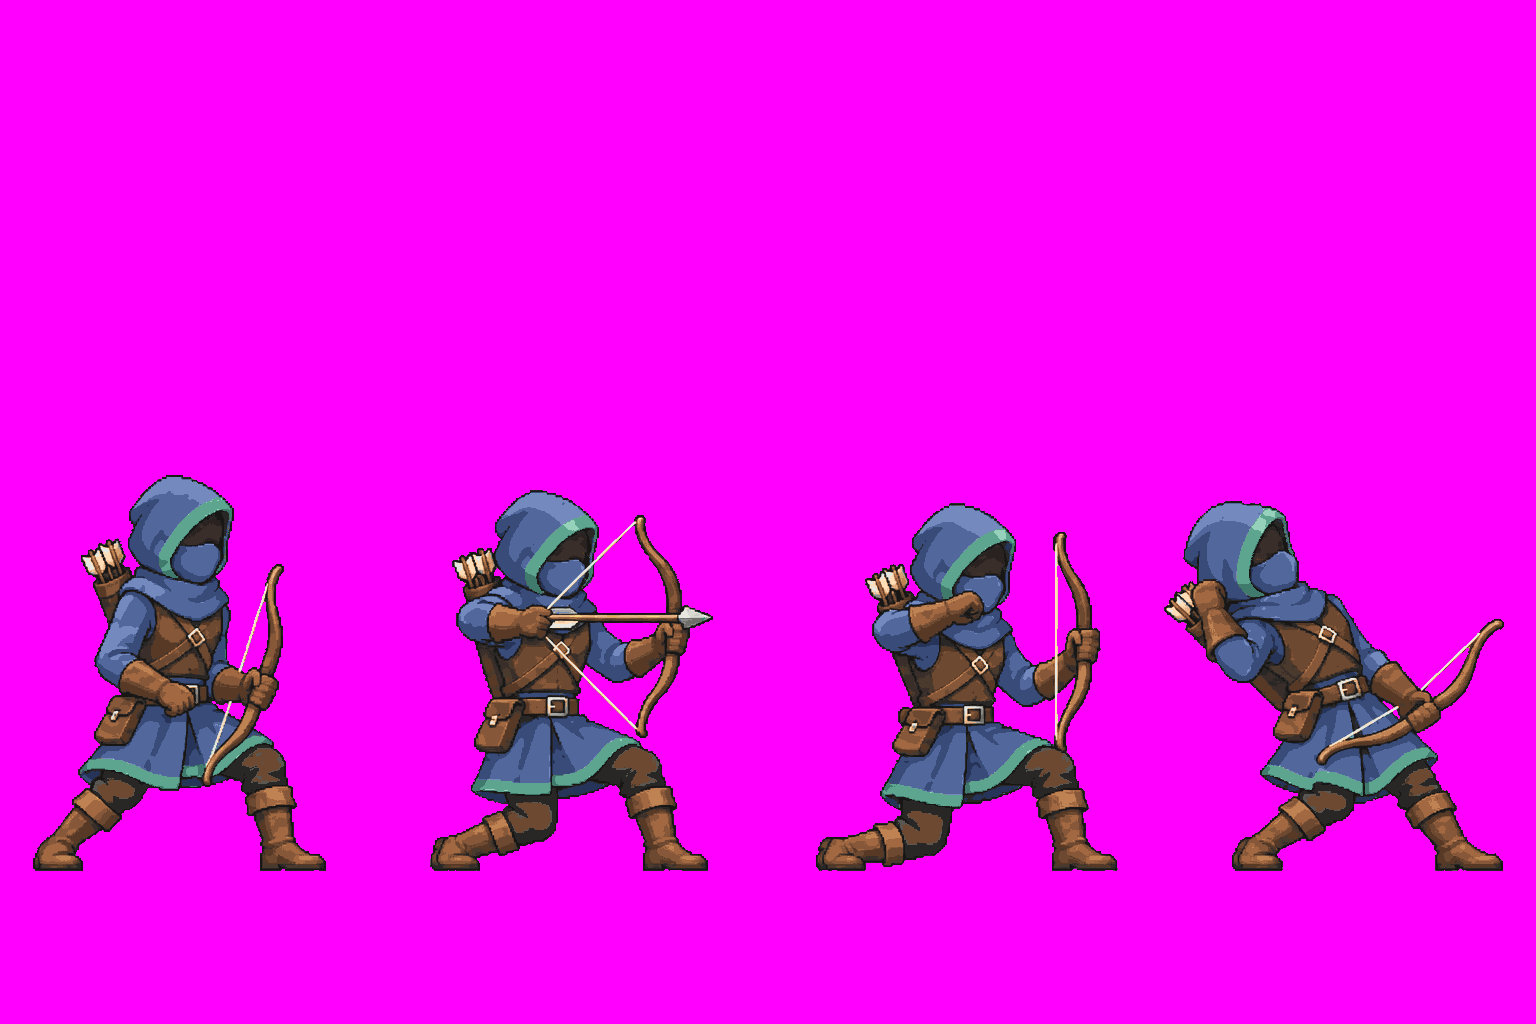
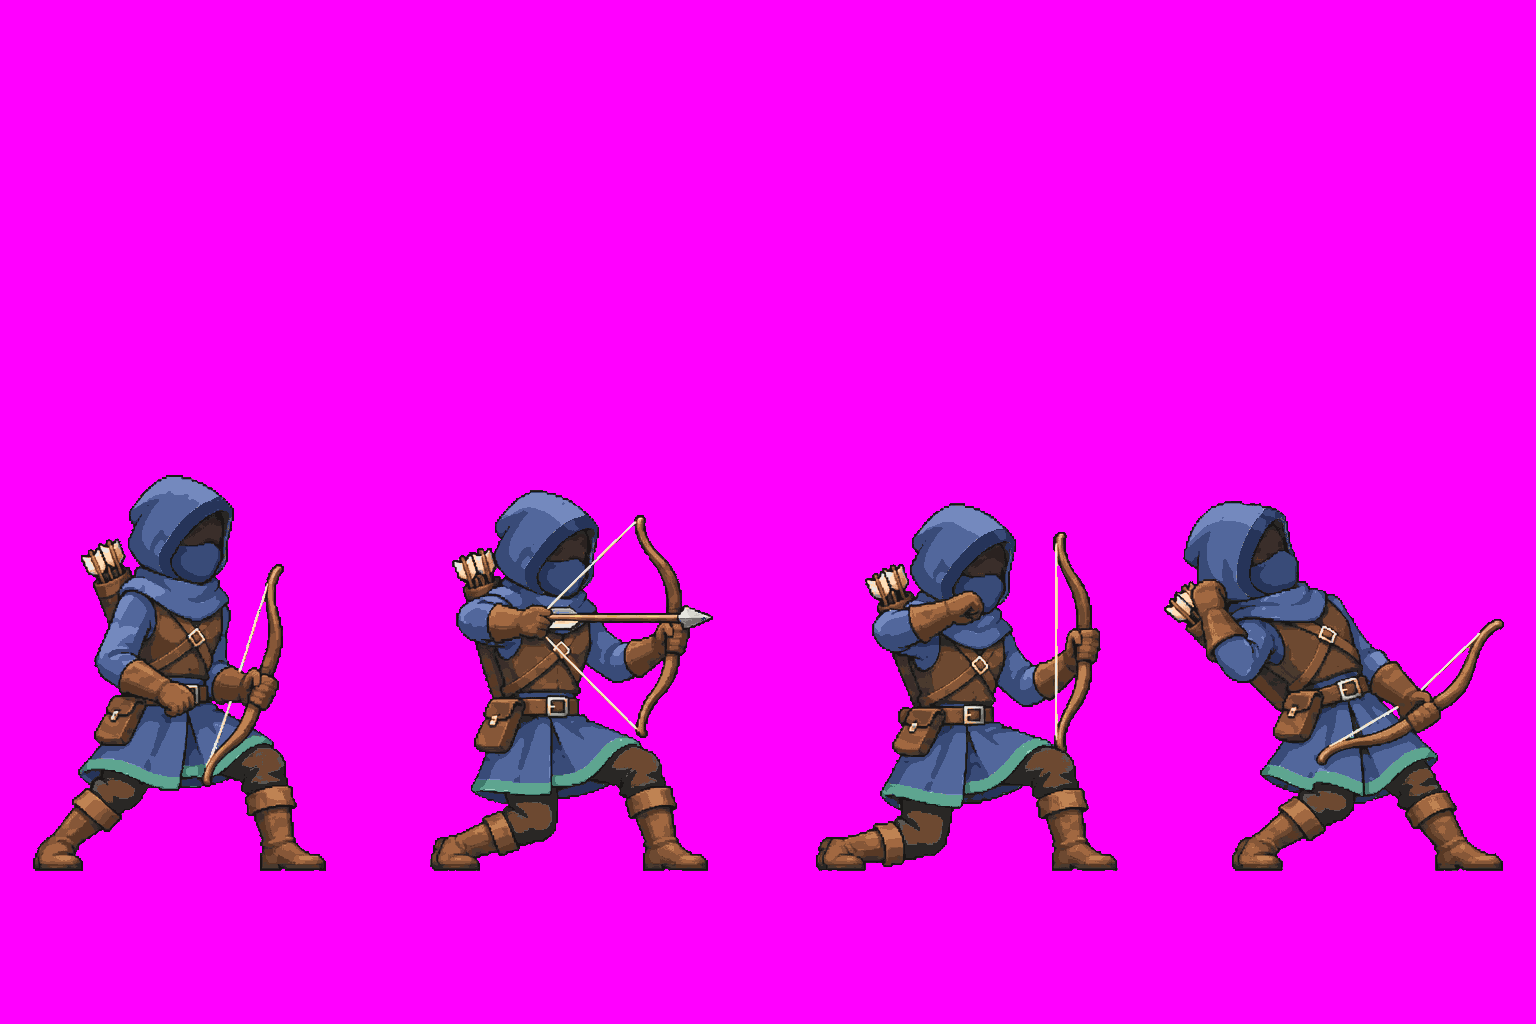
Touch up archer (Aseprite)

diff --git a/art/inbox/NOTES.md b/art/inbox/NOTES.md
@@ -215,3 +215,9 @@
 
 - `sheet_captain_bard.png`: 깃 달린 삼각모·자주색 코트·금색 레이피어 코등이·등에 맨 류트를 유지했다. 방패나 연주 효과는 없다. 준비 자세의 칼끝은 깃 위로 오른쪽을 향한다. 타격 자세의 긴 칼끝까지 옆 자세와 분리하기 위해 너비를 가이드보다 약 6.2% 줄였다.
 - 1536×1024, 1×4, 최하단 y=870, 바깥·자세 사이 최소 여백 32px, 전경 39색, 마젠타 키와 최소 RGB 거리 182.64 확인. 64px 미리보기에서 자세마다 칼이 옷 밖에 있다. 타격에서 가는 칼끝이 축소 필터에 따라 한두 점 끊겨 보일 수 있으니 엔진 미리보기에서 먼저 확인하면 좋겠다. 게임 등록은 하지 않았다.
+
+## 손질 — 궁수 (Aseprite)
+
+- `sheet_class_archer.png`: 자세·윤곽·크기·위치는 그대로. 얼굴 둘레 후드 앞 가장자리를 장식 열쇠 색에서 제복 열쇠 색(#394b78 바탕, #263459 주름 선)으로 바꿨다. 마스크는 어두운 두 단계만(#394b78 바탕, #263459 주름), 눈 틈은 따뜻한 어둠 그대로. 밑단 밖에 흩어져 있던 장식 열쇠 색 점 29개(어깨·팔 외곽선, 활시위 위)를 주변 색(외곽선·시위 색)으로 정리 — 장식 열쇠 색은 이제 상의 밑단에만 있다.
+- Aseprite 원본: `aseprite/sheet_class_archer.aseprite` (original / touchup / touchup_accent_strays 레이어).
+- 검사: `check_delivery.py` PASS (32색, 키와 최소 거리 205.7, 네 자세 최하단 y=870). 열쇠 색 확인 줄: 일곱 열쇠 모두 사용, near-key non-key pixels 0.
